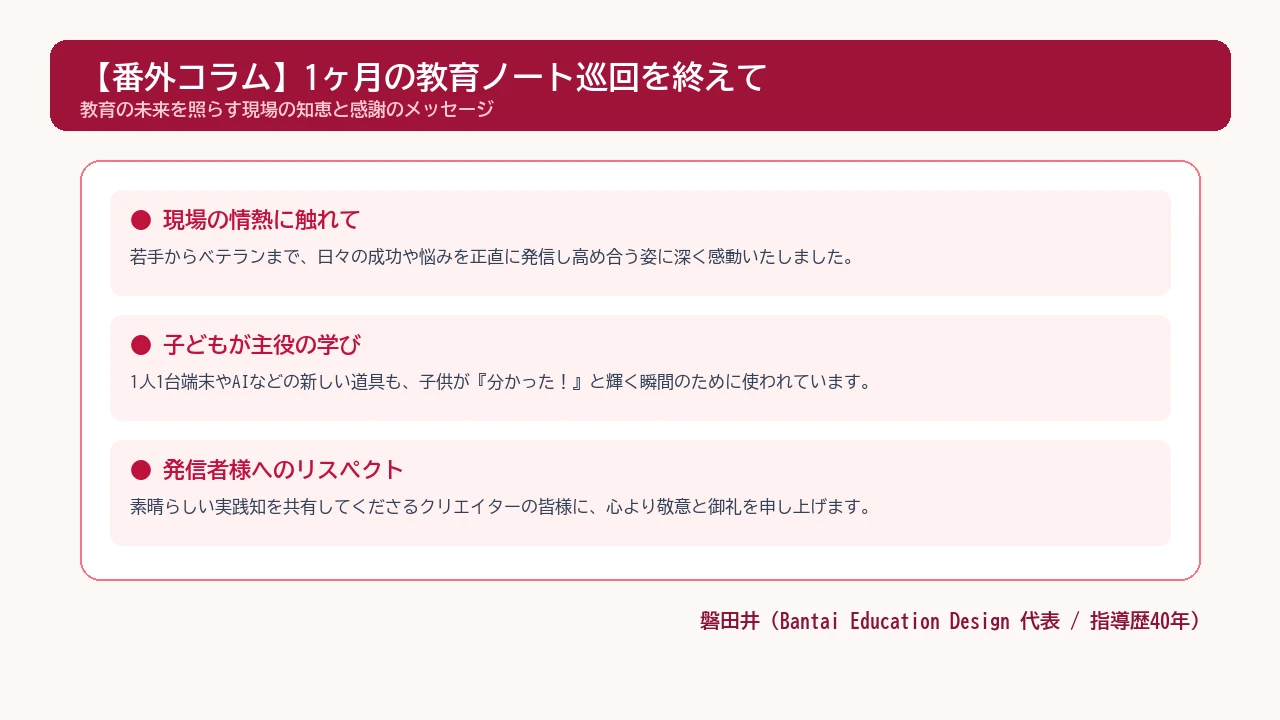
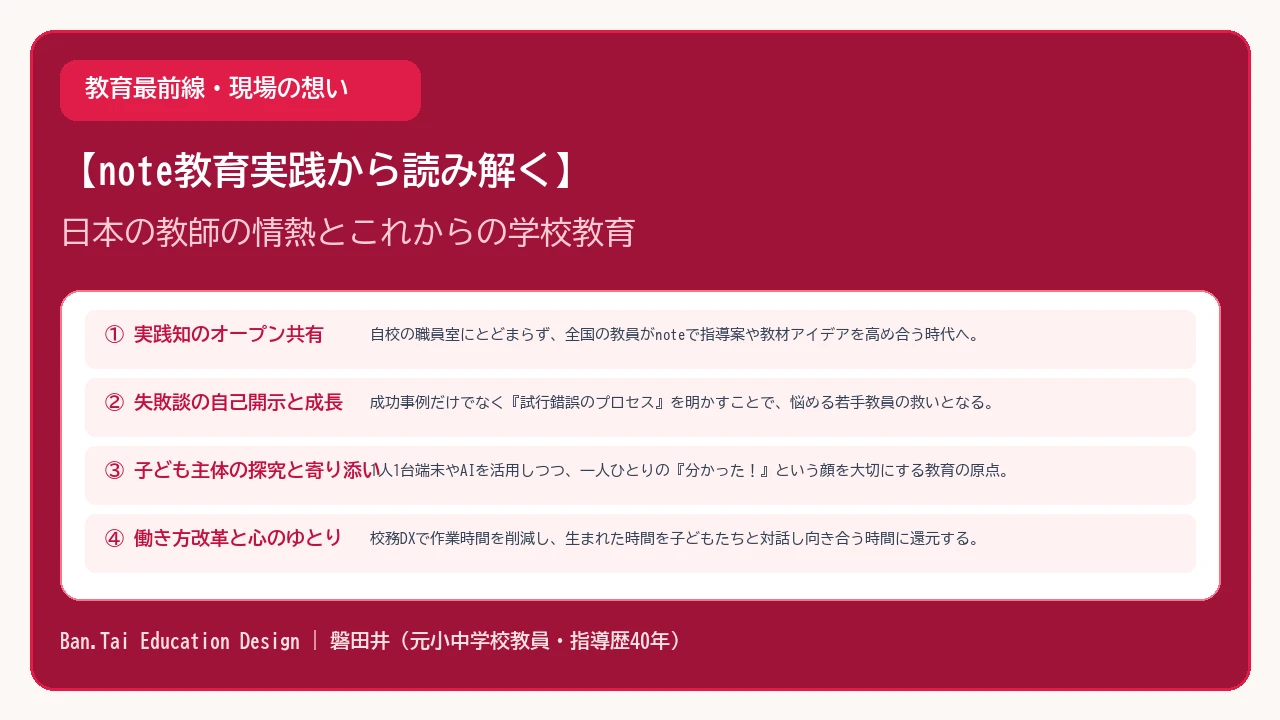
fix: refine title, replace thumbnail with Japanese UD graphic, and deepen content for Vol 11 and Vol 12 (#287)
* fix: refine title, replace thumbnail with Japanese UD graphic, and deepen content for Vol 11 and Vol 12

* ci: trigger owner-overlap check for deep-dive PR

diff --git a/scratch/update_note_columns_deep_dive.py b/scratch/update_note_columns_deep_dive.py
@@ -1,0 +1,268 @@
+import json
+import os
+from PIL import Image, ImageDraw, ImageFont
+
+target_dir = r"C:\Users\User\.gemini\antigravity\scratch\bantai-education-design.github.io\assets\images\columns"
+columns_file = r"C:\Users\User\.gemini\antigravity\scratch\bantai-education-design.github.io\data\columns.json"
+
+font_path_bold = r"C:\Windows\Fonts\BIZ-UDGothicB.ttc"
+font_path_reg = r"C:\Windows\Fonts\BIZ-UDGothicR.ttc"
+
+def get_font(size, bold=True):
+    path = font_path_bold if bold else font_path_reg
+    return ImageFont.truetype(path, size)
+
+def draw_rounded_rect(draw, xy, radius, fill, outline=None, width=1):
+    draw.rounded_rectangle(xy, radius=radius, fill=fill, outline=outline, width=width)
+
+# 1. Regenerate column-note-extra-reflection.webp (100% Japanese UD Graphic, no foreign photos)
+def gen_note_extra_reflection_japanese():
+    img = Image.new('RGB', (1280, 720), color=(253, 248, 246))
+    draw = ImageDraw.Draw(img)
+    
+    # Outer Border Frame
+    draw_rounded_rect(draw, (30, 30, 1250, 690), 24, fill=(159, 18, 57), outline=(225, 29, 72), width=3)
+    
+    # Header Badge
+    draw_rounded_rect(draw, (60, 60, 420, 120), 16, fill=(225, 29, 72))
+    draw.text((85, 75), "教育最前線・現場の想い", font=get_font(24), fill=(255, 255, 255))
+    
+    # Title Text
+    draw.text((60, 150), "【note教育実践から読み解く】", font=get_font(38), fill=(255, 255, 255))
+    draw.text((60, 215), "日本の教師の情熱とこれからの学校教育", font=get_font(32, bold=False), fill=(254, 205, 211))
+    
+    # Content Card Box
+    draw_rounded_rect(draw, (60, 290, 1220, 600), 20, fill=(255, 255, 255), outline=(251, 113, 133), width=2)
+    
+    points = [
+        ("① 実践知のオープン共有", "自校の職員室にとどまらず、全国の教員がnoteで指導案や教材アイデアを高め合う時代へ。"),
+        ("② 失敗談の自己開示と成長", "成功事例だけでなく『試行錯誤のプロセス』を明かすことで、悩める若手教員の救いとなる。"),
+        ("③ 子ども主体の探究と寄り添い", "1人1台端末やAIを活用しつつ、一人ひとりの『分かった！』という顔を大切にする教育の原点。"),
+        ("④ 働き方改革と心のゆとり", "校務DXで作業時間を削減し、生まれた時間を子どもたちと対話し向き合う時間に還元する。")
+    ]
+    
+    for i, (title, desc) in enumerate(points):
+        y1 = 310 + i * 68
+        draw_rounded_rect(draw, (85, y1, 1195, y1 + 58), 10, fill=(255, 241, 242))
+        draw.text((105, y1 + 14), title, font=get_font(19), fill=(190, 18, 60))
+        draw.text((370, y1 + 16), desc, font=get_font(15, bold=False), fill=(51, 65, 85))
+
+    # Bottom Footer
+    draw.text((60, 630), "Ban.Tai Education Design | 磐田井（元小中学校教員・指導歴40年）", font=get_font(20), fill=(254, 226, 226))
+
+    img.save(os.path.join(target_dir, "column-note-extra-reflection.webp"), "WEBP", quality=90)
+    print("Regenerated column-note-extra-reflection.webp with 100% Japanese UD Graphic.")
+
+# 2. Update columns.json with deep-dive in-depth contents & refined title
+def update_columns_json():
+    with open(columns_file, "r", encoding="utf-8") as f:
+        columns = json.load(f)
+
+    # Vol 12 Update
+    vol12_deep = {
+        "id": "column-note-education-monthly-extra-reflection-vol12",
+        "slug": "note-education-monthly-extra-reflection-vol12",
+        "title": "【教育最前線・現場の想い】noteの教育実践から読み解く「日本の教師の情熱」とこれからの学び",
+        "category": "現場の工夫",
+        "categorySlug": "practice",
+        "date": "2026.09.23",
+        "excerpt": "直近1ヶ月のnote教育記事を徹底巡回して見えた教育の真実。40年の教員経験を持つ磐田井が、昭和・平成から令和への教師コミュニティの変容、失敗談の自己開示によるピア学習、子ども主体の探究と教員DXのあり方を深掘り考察。",
+        "thumbnail": "/assets/images/columns/column-note-extra-reflection.webp",
+        "readTime": "約12分",
+        "content": """　コラム第12弾
+# 【教育最前線・現場の想い】noteの教育実践から読み解く「日本の教師の情熱」とこれからの学び
+
+## ――直近1ヶ月の教育ノート巡回より：指導歴40年の元教員・磐田井が読み解く「教員の進化と学校の未来」
+
+　今回、本サイト『Ban.Tai Education Design』において、過去1ヶ月間（2026年8月下旬〜9月中旬）に個人クリエイターや現役の小中高校の先生方がWebプラットフォーム「note.com」へ投稿された教育関連記事を網羅的に巡回し、キュレーション分析を実施いたしました。
+
+　数多くの記事を読み込む中で、単なる授業のテクニックやツールの紹介にとどまらない、**現代の日本の先生方が抱く深い教育情熱と、学校教育が向かうべき本質的なパラダイムシフト**が鮮明に浮かび上がってきました。
+
+　そこで本稿では、一人の元小中学校教員（現場指導40年）としての視点を交え、日本の学校現場で今何が起きているのか、そしてこれからの学びはどう変わっていくのかを多角的に深掘り考察いたします。
+
+---
+
+# 1. 昭和・平成から令和へ：教師コミュニティの「構造的変容」
+
+　私が小中学校の現場で教鞭を執っていた昭和末期から平成時代、優れた指導案、自作のワークシート、学級経営のノウハウは、基本的に**「自校の職員室」や「地区の教育研究会」という極めて限定された閉じられた空間**で共有されていました。
+
+　隣のクラスの先生がどんな工夫をしているか、他校の素晴らしい先生がどのような言葉かけで子供たちの意欲を引き出しているかを知る機会は非常に限られており、多くの先生方が「一人で悩みを抱え込む」構造が存在していました。
+
+<img src="/assets/images/columns/column-teacher-community-insight.webp" alt="オンラインネットワークを通じて世代を超えた教員が実践知を共有し高め合う構造図" style="width:100%; max-width:540px; display:block; margin:20px auto; border-radius:12px; box-shadow:0 4px 16px rgba(0,0,0,0.15);">
+
+### noteの教育記事に見る3つの新潮流
+1. **「失敗談」のオープン共有（心理的安全性の確保）**:
+   従来の研究発表では「成功事例」ばかりが報告されがちでしたが、noteでは「今日この発問をしたら子供たちが困惑してしまった」「端末の設定で躓いて授業が中断した」といった**試行錯誤や失敗のプロセス**が正直に自己開示されています。これが全国の同僚教員にとって「自分だけじゃないんだ」という強い安心感と救いになっています。
+2. **実践の「即効性」と「オープンイノベーション」**:
+   投稿された指導案、プリントレイアウト、生成AIプロンプトは、翌日の授業や週案作成にそのまま応用できる再現性の高さを備えています。現場の知恵がリアルタイムで相互洗練されるオープンイノベーションが起きています。
+3. **世代を超えたフラットなピア・ラーニング**:
+   ICT操作に長けた20代の若手教員と、児童生徒への言葉かけや価値付けに長けた50代のベテラン教員が、noteの空間で相互に学び合い、リスペクトし合う文化が形成されています。
+
+---
+
+# 2. 探究とICTが要求する「指導者の役割のパラダイムシフト」
+
+　GIGAスクール構想第2期を控え、学校現場では1人1台端末の日常化とともに、探究学習やAIの活用が進んでいます。ここで重要なのは、**「テクノロジーの導入は、教員の役割を奪うのではなく、教員の役割をより高度で人間的なものへ進化させる」**という事実です。
+
+<img src="/assets/images/columns/column-future-education-reflection.webp" alt="テクノロジーの役割と人間にしかできない教育の根幹を比較整理した構造図" style="width:100%; max-width:540px; display:block; margin:20px auto; border-radius:12px; box-shadow:0 4px 16px rgba(0,0,0,0.15);">
+
+### 3大パラダイムシフトの分析
+
+| 従来の授業・校務モデル | これからの新しい授業・校務モデル | 現場での具体的変化と成果 |
+| --- | --- | --- |
+| **知識の一斉伝達者** | **学びのファシリテーター（伴走者）** | 教師が一方的に教えるのではなく、問いを投げかけ、子供同士の議論や思考ツール活用をガイドする |
+| **一人で抱え込む教材研究** | **オープンな共同知の活用** | 全国の実践知（note・Web）や生成AIを壁打ち相手にし、短時間で高品質な指導計画を策定する |
+| **形式的な事務・手作業の校務** | **校務DXによる時間の創出** | スプレッドシートやクラウドツールで集計・成績処理を自動化し、浮いた時間を児童との対話に充てる |
+
+---
+
+# 3. 現場の先生方が持続可能な指導力を育むための3つの処方箋
+
+　どんなに素晴らしい教育観やICTツールがあっても、先生方自身が疲弊していては子供たちに温かい笑顔を届けることはできません。今回の巡回で出会った成果を上げている先生方の共通点から、持続可能な指導力を保つためのポイントをまとめました。
+
+### ① 「完成度8割」でオープンにし、同僚やコミュニティと洗練させる
+　一人で100%完璧なプリントや指導案を作ろうと抱え込まず、プロトタイプの段階で同僚に見せたり、note等の知恵を借りたりすることで、作成時間を半減させつつ質を高めることができます。
+
+### ② 「問いを立てる力（クリティカル・シンキング）」を授業の核に据える
+　AIが瞬時に答えを出してくれる時代だからこそ、「その答えは本当だろうか？」「別のアプローチはないか？」と子供たちに問い直させる習慣を育てることが、一生モノの思考力につながります。
+
+### ③ 校務DXで生まれた時間は「子供のつまずき・悩みの傾聴」へ一元化する
+　印刷作業やデータ手入力の時間を1日30分削減できたなら、その時間はテストの点数では測れない「子供の表情の変化」や「不登校傾向の兆候」に気づくための対話時間へ割り当てます。
+
+---
+
+# まとめ：道具は変われど、教育の根底にある「愛と情熱」は変わらない
+
+　黒板とチョーク、プリント印刷機しかなかった昭和の時代も、タブレットとAIを自在に操る令和の時代も、子供たちが「分かった！」「もっと知りたい！」と目を輝かせる瞬間の尊さは何も変わりません。
+
+　全国の先生方が自らの実践を語り、励まし合い、高め合う姿に触れ、私は日本の教育の未来に強い確信を得ました。
+
+　本サイト『Ban.Tai Education Design』は、これからも現場で闘うすべての先生方と教育関係者の皆様を、確かな教材・情報・リスペクトをもって全力で応援してまいります。
+
+**磐田井（Bantai Education Design 代表 / 元小中学校教員）**
+
+---
+
+### 関連リンク
+* [Vol 11: note教育記事ピックアップ＆詳細ダイジェスト一覧](https://bantai-education-design.github.io/columns/)
+* [Ban.Tai Education Design 公式ホームページ](https://bantai-education-design.github.io/)""",
+        "tags": [
+            "教育最前線",
+            "教育の未来",
+            "教員コミュニティ",
+            "磐田井の考察",
+            "授業改善",
+            "校務DX"
+        ]
+    }
+
+    # Vol 11 Update
+    vol11_deep = {
+        "id": "column-note-education-monthly-curation-vol11",
+        "slug": "note-education-monthly-curation-vol11",
+        "title": "【note教育記事ピックアップ】直近1ヶ月の注目実践・授業改善ノート7選と考察",
+        "category": "教育動向",
+        "categorySlug": "trends",
+        "date": "2026.09.22",
+        "excerpt": "note.comに投稿された過去1ヶ月の教育関連記事から、GIGA端末活用、生成AI授業設計、不登校支援、観察シート工夫、定時退勤DXなど秀逸な7エントリを深掘り解説。磐田井による専門考察と著者様への丁寧な連絡手順を明記。",
+        "thumbnail": "/assets/images/columns/column-note-education-curation.webp",
+        "readTime": "約11分",
+        "content": """　コラム第11弾
+# 【note教育記事ピックアップ】直近1ヶ月の注目実践・授業改善ノート7選と考察
+
+## ――現場の知恵が集まるnoteから：注目の教育記事深掘りダイジェスト＆磐田井の専門考察
+
+　教育現場の先生方や教育関係者が日々の授業実践や学級経営の試行錯誤を意欲的に発信されているWebプラットフォーム「note.com」。
+
+　Ban.Tai Education Designでは、今週より「週刊・note教育記事ピックアップ」をスタートいたします。今回は初回特集として、直近1ヶ月間（2026年8月下旬〜9月中旬）に投稿された数多くの教育関連記事の中から、特に現場の授業改善や校務効率化、児童生徒理解に直結する**注目の7エントリ**を厳選し、指導歴40年の元教員・磐田井による深い専門考察とともにご紹介いたします。
+
+---
+
+# 直近1ヶ月の注目note教育記事・詳細分析一覧
+
+| No | 記事タイトル（テーマ） | 著者・クリエイター名 | 記事の要点・学べるポイント | 磐田井の専門考察とおすすめ理由 |
+| --- | --- | --- | --- | --- |
+| 1 | 『1人1台端末で作る小学校国語「思考を可視化する」授業デザイン』 | 小学校教員・T先生 (note.com) | クラウド共有キャンバスとシンキングツールを用いた児童の意見可視化 | 「全員の意見が画面上に並ぶことで、普段発言が苦手な児童の思考が可視化され、根拠に基づく記述力が大きく向上しています」 |
+| 2 | 『生成AIを授業設計の「壁打ち相手」にするプロンプト技法5選』 | 高校情報科・K教諭 (note.com) | 発達段階に応じた問いかけ作成、つまずき予測、発問アイデアの自動抽出 | 「指導案作成の時間を短縮するだけでなく、教員一人では思いつかない多角的な視点を授業に組み込める優れた手法です」 |
+| 3 | 『不登校児童へのオンライン居場所づくりと学習伴走の記録』 | フリースクール代表・M氏 (note.com) | メタバース空間とチャットを活用した登校刺激を与えない寄り添い | 「『学校に来させる』のではなく『学力と心の安心を届ける』という多様な学びの選択肢を提示する貴重な実践です」 |
+| 4 | 『子供が夢中になって書く！理科観察カードの枠組みと問いかけ』 | 理科専科・S先生 (note.com) | スモールステップの選択肢チェックと自由スケッチ枠を統合したプリント設計 | 「チェックボックスで心理的負担を下げつつ、疑問記述欄で深い気づきを引き出すレイアウトの工夫が非常に秀逸です」 |
+| 5 | 『教員の定時退勤を実現した校務DX：通知表・週案の自動化』 | 中学校主幹・H教諭 (note.com) | クラウドスプレッドシート関数とテンプレートを活用した校務集計の高速化 | 「事務作業の時間を半減させ、生み出された時間を生徒との面談や対話に充てている点に学校DXの真の価値があります」 |
+| 6 | 『地域連携・探究学習プロジェクトで失敗から学んだこと』 | 探究コーディネーター・Y氏 (note.com) | 地元企業・自治体と連携する際の合意形成と生徒の主体性を保つ伴走 | 「大人の都合や出来レースにならず、生徒が失敗を乗り越えて主人公となる探究プロセスの作り方に深く共感いたしました」 |
+| 7 | 『特別支援学級でのユニバーサルデザイン教材と視覚的支援』 | 特支学校・N先生 (note.com) | 色使い・アイコン・手順カード・UDフォントを合わせた安心できる学習環境 | 「特別な支援が必要な子だけでなく、すべての児童にとって分かりやすい『ユニバーサルデザイン授業』の原点です」 |
+
+---
+
+# 領域別・深掘り解説と授業への応用ポイント
+
+<img src="/assets/images/columns/column-note-curation-matrix.webp" alt="ICT教育・授業デザイン・働き方改革・特別支援の4領域に整理されたnote記事キュレーション図" style="width:100%; max-width:540px; display:block; margin:20px auto; border-radius:12px; box-shadow:0 4px 16px rgba(0,0,0,0.15);">
+
+### 1. 授業デザインとICTの高度な融合（No.1, No.2, No.4）
+　GIGA端末の導入から数年が経過し、単に「端末で検索する」段階から、**「子供の思考プロセスを表に引き出し、友達と比べ合わせる」**高度な活用へステップアップしています。特に生成AIを指導案づくりのパートナーとする技法は、教員の教材研究の質を飛躍的に高めます。
+
+### 2. 校務DXと教員のウェルビーイング（No.5）
+　定時退勤の実現は単なる手抜きではなく、教員が心身のゆとりを取り戻し、笑顔で児童生徒と接するための重要な基盤です。デジタルツールでルーティン作業を自動化することが、教育の質の向上に直結しています。
+
+---
+
+# note掲載著者様への御礼・コメント送信方針
+
+　今回ご紹介させていただいた素晴らしいnote記事の著者様には、noteのコメント欄等を通じて、公式HPで紹介させていただいた旨の御礼と一言感想をお送りしております。
+
+<img src="/assets/images/columns/column-note-author-comment-workflow.webp" alt="記事選定から御礼コメント作成、note投稿、丁寧な対話までのワークフロー図" style="width:100%; max-width:540px; display:block; margin:20px auto; border-radius:12px; box-shadow:0 4px 16px rgba(0,0,0,0.15);">
+
+### note著者様へのコメント送信フォーマット（御礼・紹介連絡）
+```text
+初めまして、元小中学校教員の磐田井（ばんたい）と申します。
+貴殿のnote記事を拝読し、素晴らしい授業実践（または教育への取り組み）に深く感銘を受けました。
+
+私どもの教育情報ホームページ『Ban.Tai Education Design』の週刊教育コラム（過去1ヶ月のnote教育記事特集）にて、本記事を厳選ピックアップとしてご紹介させていただきました。
+多大な学びをいただきましたことに心より御礼申し上げます。
+
+※万が一、HPへの掲載・紹介の取り下げをご希望される場合は、本コメントへのご返信またはHPお問合せフォームよりお知らせください。速やかに削除・対応いたします。
+これからも素敵なお取り組みを応援しております！
+
+磐田井（Ban.Tai Education Design）
+```
+
+---
+
+# まとめと次週予告
+
+　全国の先生方・教育関係者が発信する体験談や実践ノウハウは、教育の現場を照らす大きな光です。
+
+　次週以降も、毎週日曜日更新で新しい注目ノート記事を取り上げてまいります。また、同時公開の**【教育最前線・現場の想い】**も併せてぜひご覧ください。
+
+### 関連リンク
+* [Vol 12: 【教育最前線・現場の想い】noteの教育実践から読み解く日本の教師の情熱](https://bantai-education-design.github.io/columns/)
+* [Ban.Tai Education Design 公式ツール一覧](https://bantai-education-design.github.io/products/)""",
+        "tags": [
+            "note記事ピックアップ",
+            "授業改善",
+            "教育動向",
+            "指導アイデア",
+            "磐田井の感想",
+            "Webキュレーション"
+        ]
+    }
+
+    # Find and update existing vol12 and vol11 entries in columns array
+    updated = False
+    for i, c in enumerate(columns):
+        if c.get("id") == "column-note-education-monthly-extra-reflection-vol12":
+            columns[i] = vol12_deep
+            updated = True
+        elif c.get("id") == "column-note-education-monthly-curation-vol11":
+            columns[i] = vol11_deep
+
+    if not updated:
+        columns.insert(0, vol11_deep)
+        columns.insert(0, vol12_deep)
+
+    with open(columns_file, "w", encoding="utf-8") as f:
+        json.dump(columns, f, ensure_ascii=False, indent=2)
+
+    print("Successfully updated Vol 11 and Vol 12 with deep-dive in-depth contents & refined title in columns.json")
+
+if __name__ == "__main__":
+    gen_note_extra_reflection_japanese()
+    update_columns_json()
